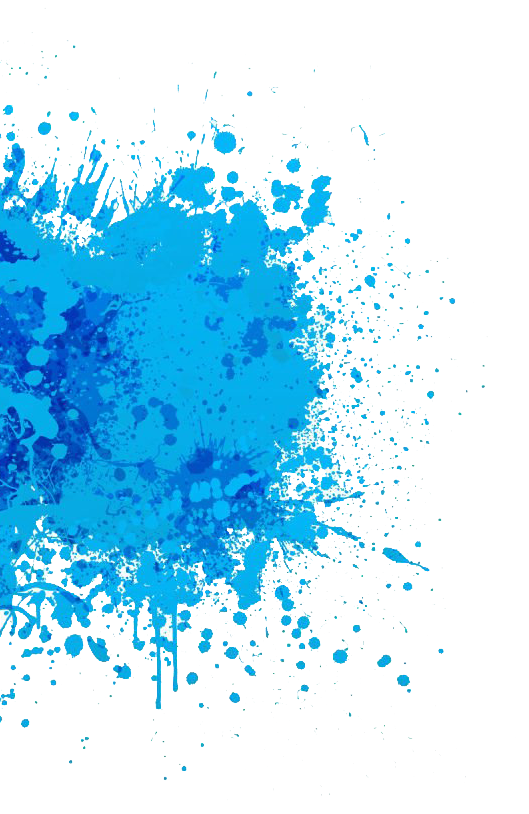
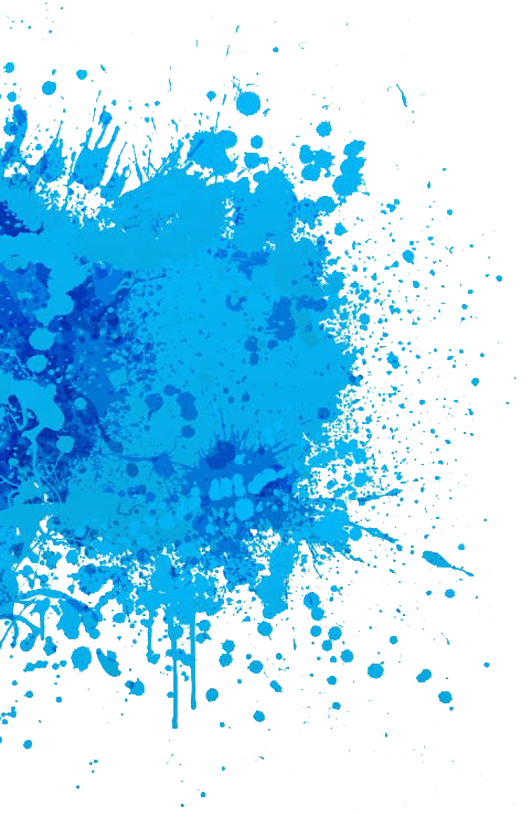
edit about component

diff --git a/src/Components/About.js b/src/Components/About.js
@@ -1,32 +1,27 @@
 import React from "react";
-import AboutBackground from "../Assets/sidebackground.png";
-import AboutBackgroundImage from "../Assets/transp.png";
+import AboutBackground from "../Assets/secbackground.png";
 import { BsFillPlayCircleFill } from "react-icons/bs";
 
 
 const About = () => {
   return (
     <div className="about-section-container">
-      <div className="about-background-image-container">
+      <div className="about-section-image-container">
         <img src={AboutBackground} alt="" />
       </div>
-      <div className="about-section-image-container">
-        <img src={AboutBackgroundImage} alt="" />
-      </div>
+      
 
 
       <div className="about-section-text-container">
-        <p className="primary-subheading">About</p>
+        <p className="primary-subheading">About Us</p>
         <h1 className="primary-heading">
-          Food Is An Important Part Of A Balanced Diet
+          We are professional web developing team with more than 5 years experience
         </h1>
         <p className="primary-text">
-          Lorem ipsum dolor sit amet consectetur. Non tincidunt magna non et
-          elit. Dolor turpis molestie dui magnis facilisis at fringilla quam.
+          We ,thrimana are one of the best web developing team in field for five years
         </p>
         <p className="primary-text">
-          Non tincidunt magna non et elit. Dolor turpis molestie dui magnis
-          facilisis at fringilla quam.
+          Give your idea to us and we build that into reality
         </p>
         <div className="about-buttons-container">
           <button className="secondary-button">Learn More</button>

diff --git a/src/App.css b/src/App.css
@@ -127,7 +127,7 @@ nav {
 .about-background-image-container {
   position: absolute;
   left: -150px;
-  z-index: -2;
+  z-index: -3;
 }
 .about-section-image-container {
   flex: 0.9;
@@ -138,12 +138,12 @@ nav {
   justify-content: center;
   display: flex;
   flex-direction: column;
-  left: 800px;
+  left:500px;
 }
 .primary-subheading {
-  font-weight: 700;
-  color: #fe9e0d;
-  font-size: 1.15rem;
+  font-weight: 1000;
+  color: #006CFA;
+  font-size: 1.5rem;
 }
 .about-buttons-container {
   margin-top: 2rem;
@@ -317,7 +317,7 @@ nav {
     font-size: 1rem;
   }
   .home-bannerImage-container {
-    max-width: 600px;
+    max-width: 800px;
   }
 }
 @media (max-width: 800px) {
@@ -346,6 +346,7 @@ nav {
   .about-section-image-container {
     width: 100%;
     max-width: 400px;
+   
   }
   .primary-heading {
     text-align: center;
